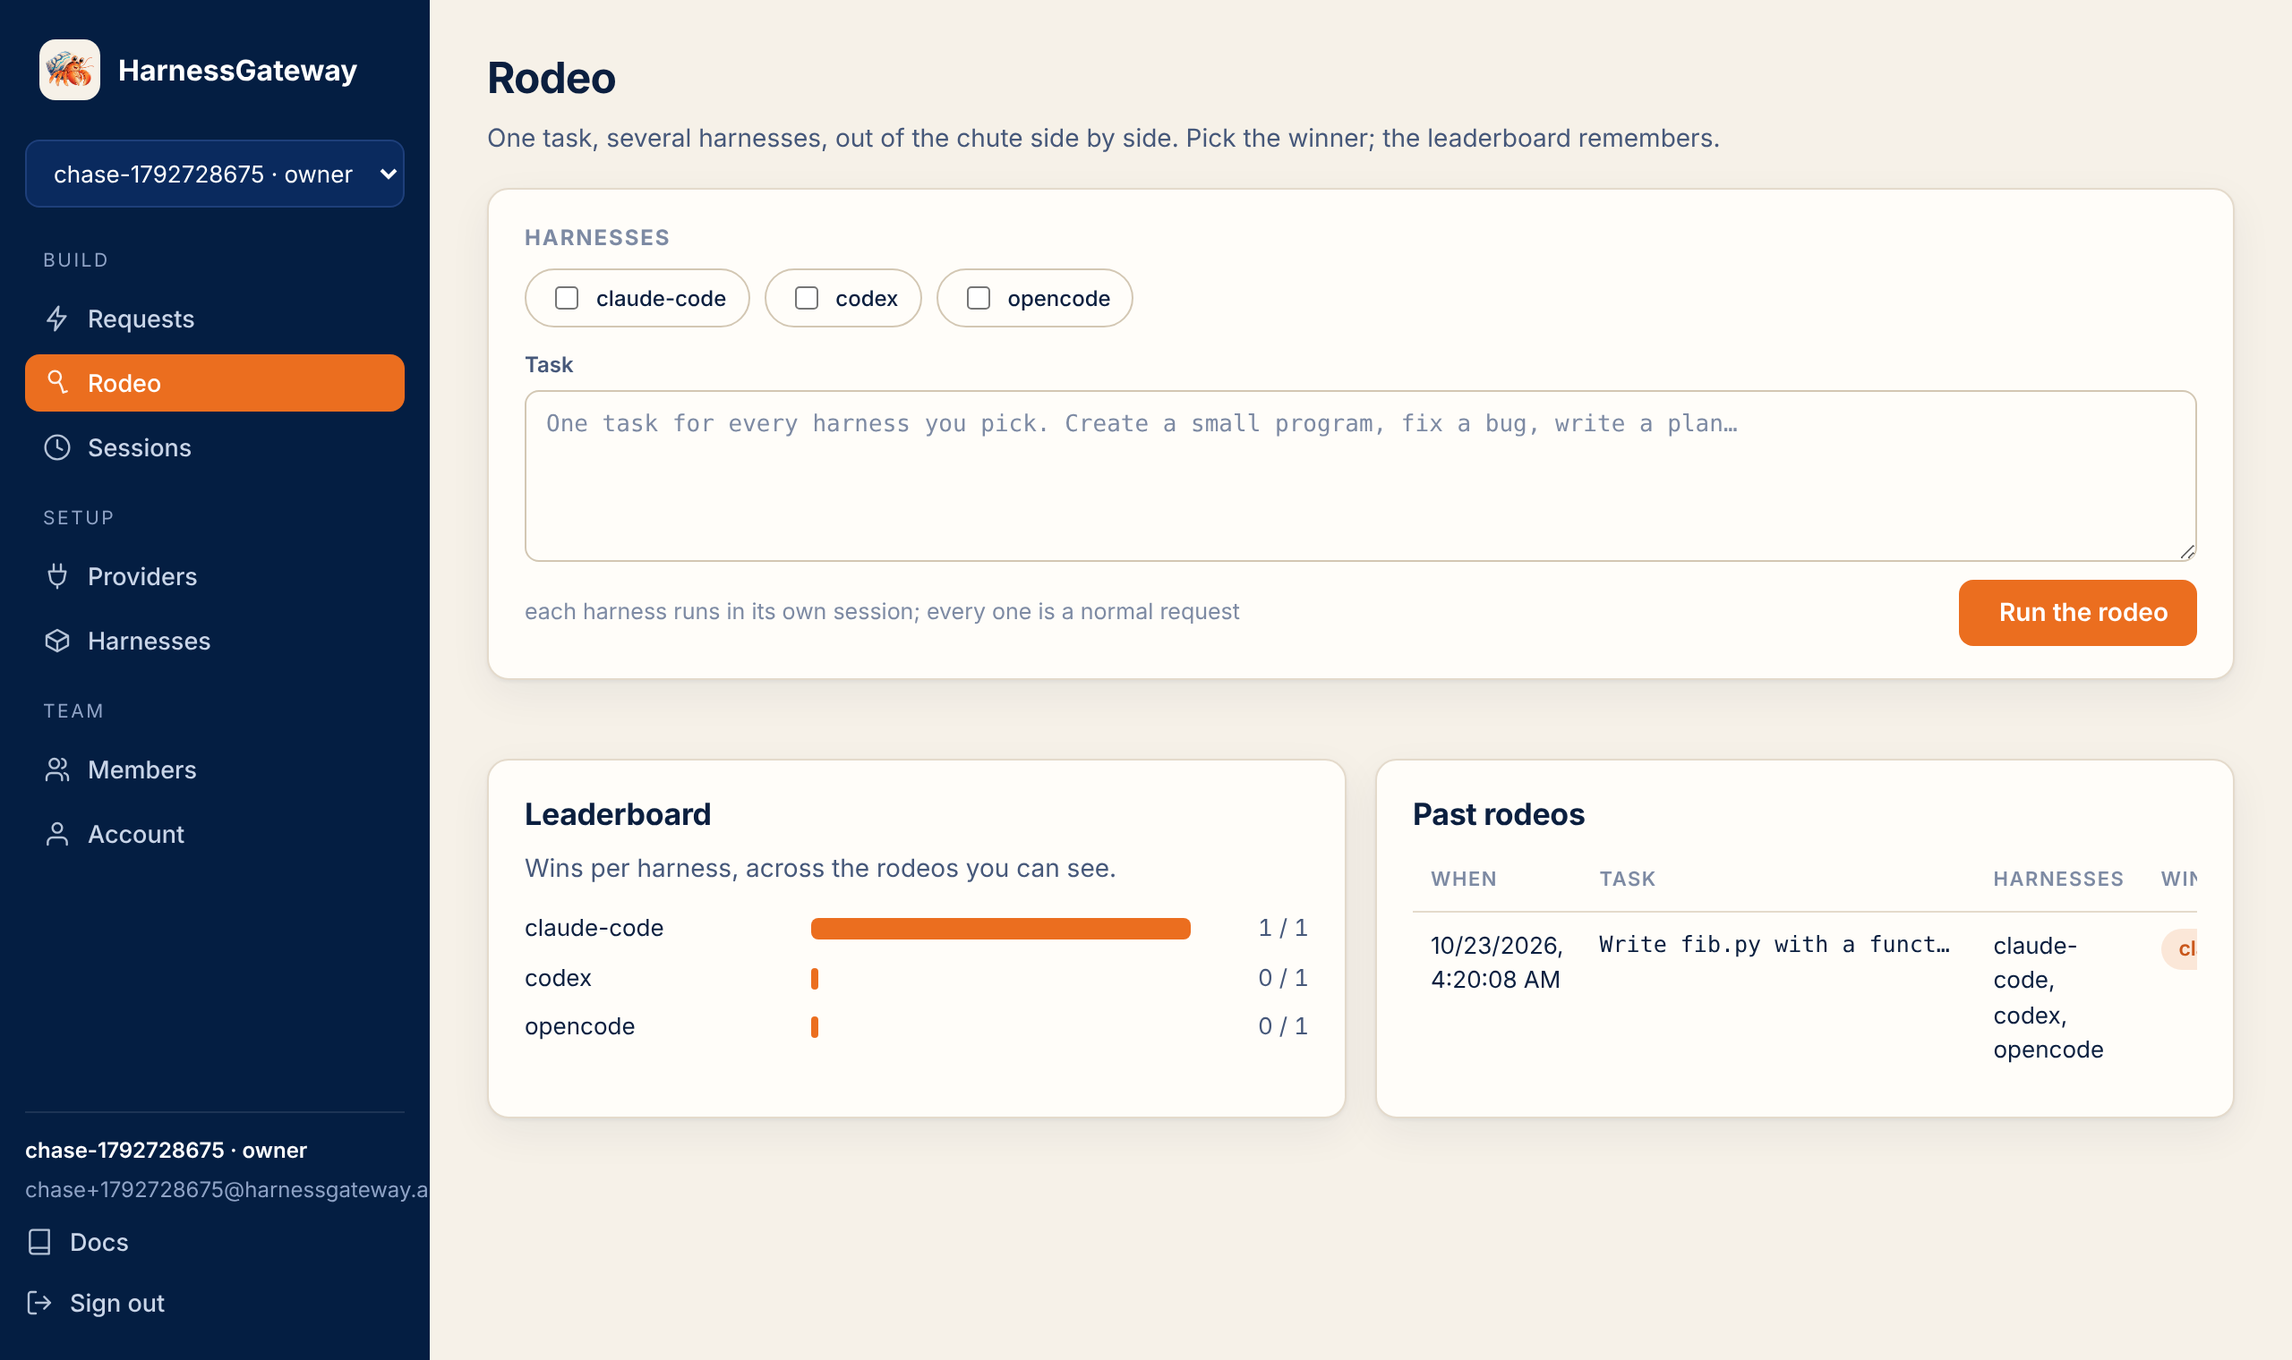
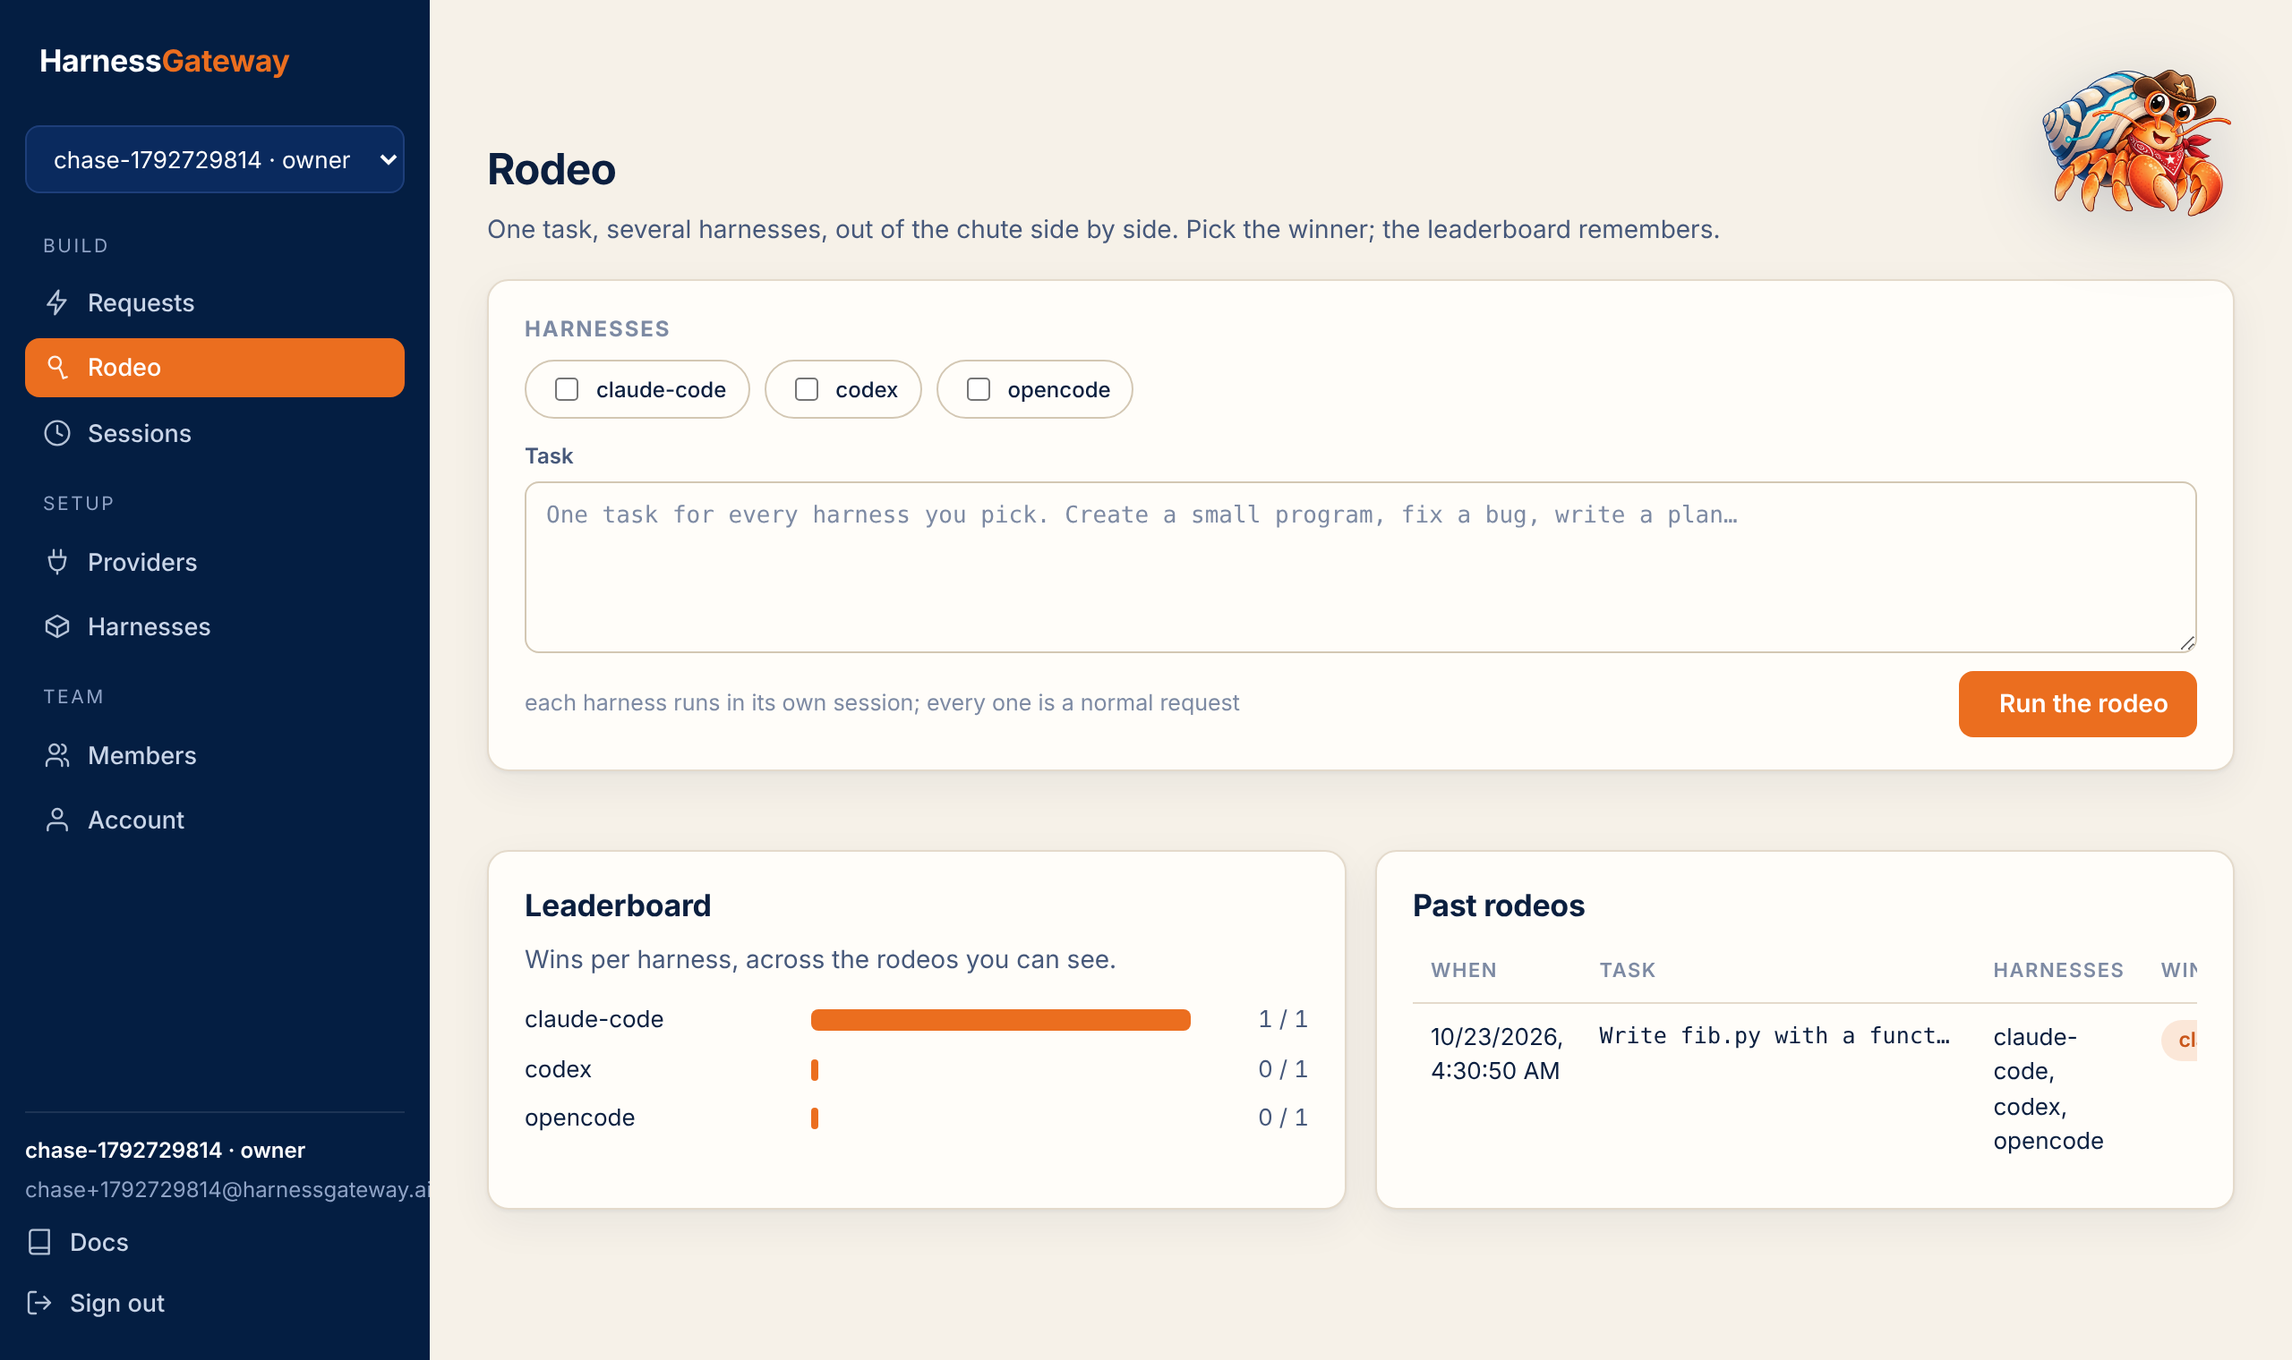
6.1.1: Picky updated, Picky in the rodeo, the name as a wordmark (#59)
The newest portrait on the home page and the sign-in page with no square behind it; the cowboy Picky on the Rodeo page, the home page's rodeo card and the rodeo docs; the name as a wordmark, Harness in ink and Gateway in orange, in place of the small mascot. Screenshots retaken.

Claude-Session: https://claude.ai/code/session_01ERRZXAJHGKJWMvAyf4LasW

diff --git a/web/style.css b/web/style.css
@@ -15,6 +15,9 @@ html { background:var(--bg); }
 body { margin:0; font:14px/1.5 var(--sans); color:var(--fg); background:var(--bg); min-height:100vh; -webkit-font-smoothing:antialiased; }
 a { color:var(--blue); text-decoration:none; } a:hover { color:var(--blue-2); text-decoration:underline; }
 h1, h2, h3, h4 { margin:0; letter-spacing:-.01em; text-wrap:balance; }
+.wordmark { font-weight:700; letter-spacing:-.01em; white-space:nowrap; } .wordmark em { font-style:normal; color:var(--orange); }
+.rodeo-mascot { width:112px; height:112px; filter:drop-shadow(0 10px 20px rgba(4,30,66,.18)); }
+.feature.rodeo-feature { position:relative; padding-right:120px; } .rodeo-feature img { position:absolute; right:10px; top:10px; width:96px; height:96px; }
 h2 { font-size:17px; font-weight:650; } h3 { font-size:12px; font-weight:650; color:var(--muted); text-transform:uppercase; letter-spacing:.08em; margin:18px 0 8px; }
 p { margin:0 0 10px; } p.lead { font-size:17px; color:var(--dim); line-height:1.55; }
 code, kbd { font-family:var(--mono); font-size:.92em; background:var(--surface-2); border:1px solid var(--line); border-radius:5px; padding:1px 5px; }
@@ -66,7 +69,7 @@ th { color:var(--muted); font-weight:600; font-size:11px; text-transform:upperca
 /* the app shell: a sidebar and a page */
 .shell { display:grid; grid-template-columns:240px 1fr; min-height:100vh; }
 .side { background:var(--navy); color:#DCE5F3; padding:18px 14px; display:flex; flex-direction:column; gap:4px; position:sticky; top:0; height:100vh; overflow:auto; }
-.side .brand { display:flex; align-items:center; gap:10px; padding:4px 8px 14px; color:#fff; font-weight:700; font-size:16px; text-decoration:none; } .side .brand img { width:34px; height:34px; border-radius:9px; background:var(--bg); padding:3px; }
+.side .brand { display:flex; align-items:center; gap:10px; padding:4px 8px 14px; color:#fff; font-weight:700; font-size:17px; text-decoration:none; }
 .side .group { font-size:10.5px; text-transform:uppercase; letter-spacing:.12em; color:#8FA3C6; padding:12px 10px 4px; }
 .side a.item, .side button.item { display:flex; align-items:center; gap:9px; width:100%; text-align:left; background:none; border:0; color:#C9D5E8; padding:8px 10px; border-radius:8px; font-weight:500; font-size:13.5px; }
 .side .item:hover { background:rgba(255,255,255,.07); color:#fff; text-decoration:none; } .side .item.on { background:var(--orange); color:#fff; }
@@ -81,7 +84,7 @@ th { color:var(--muted); font-weight:600; font-size:11px; text-transform:upperca
 @media (max-width:900px) {
   .shell { grid-template-columns:1fr; } .side { display:none; }
   .topbar { display:flex; align-items:center; gap:10px; padding:10px 16px; background:var(--navy); color:#fff; position:sticky; top:0; z-index:5; overflow-x:auto; }
-  .topbar img { width:26px; height:26px; border-radius:7px; background:var(--bg); padding:2px; } .topbar b { white-space:nowrap; }
+  .topbar b { white-space:nowrap; }
   .topbar button { background:none; border:0; color:#C9D5E8; padding:6px 8px; white-space:nowrap; font-weight:500; } .topbar button.on { color:var(--orange); }
   .page { padding:18px 16px 40px; }
 }
@@ -89,7 +92,7 @@ th { color:var(--muted); font-weight:600; font-size:11px; text-transform:upperca
 /* sign in */
 .auth { min-height:100vh; display:grid; grid-template-columns:1.1fr 1fr; }
 .auth .side-art { background:var(--navy); color:#DCE5F3; padding:48px; display:flex; flex-direction:column; justify-content:space-between; }
-.auth .side-art .brand { display:flex; align-items:center; gap:12px; color:#fff; font-weight:700; font-size:18px; text-decoration:none; } .auth .side-art .brand img { width:40px; height:40px; border-radius:10px; background:var(--bg); padding:3px; }
+.auth .side-art .brand { display:flex; align-items:center; gap:12px; color:#fff; font-weight:700; font-size:20px; text-decoration:none; }
 .auth .side-art h1 { color:#fff; font-size:34px; line-height:1.1; margin:0 0 14px; } .auth .side-art h1 em { color:var(--orange); font-style:normal; }
 .auth .side-art p { max-width:460px; color:#B7C6E0; font-size:15px; }
 .auth .side-art img.mascot { width:220px; margin-top:24px; filter:drop-shadow(0 20px 40px rgba(0,0,0,.35)); }
@@ -127,7 +130,7 @@ th { color:var(--muted); font-weight:600; font-size:11px; text-transform:upperca
 
 /* the home page */
 .site header { display:flex; align-items:center; gap:18px; padding:14px 28px; max-width:1180px; margin:0 auto; }
-.site header .brand { display:flex; align-items:center; gap:10px; color:var(--navy); font-weight:700; font-size:17px; text-decoration:none; } .site header .brand img { width:36px; height:36px; }
+.site header .brand { display:flex; align-items:center; gap:10px; color:var(--navy); font-weight:700; font-size:19px; text-decoration:none; }
 .site header nav { display:flex; gap:18px; margin-left:12px; } .site header nav a { color:var(--dim); font-weight:500; } .site header nav a:hover { color:var(--navy); text-decoration:none; }
 .site header .cta { margin-left:auto; display:flex; gap:8px; }
 .hero { max-width:1180px; margin:0 auto; padding:56px 28px 36px; display:grid; grid-template-columns:1.15fr .85fr; gap:36px; align-items:center; }

diff --git a/web/app.js b/web/app.js
@@ -96,7 +96,7 @@ function login(note, mode = "signin", resetToken = "") {
   }
   $("#root").replaceChildren(h("div", { class: "auth" },
     h("div", { class: "side-art" },
-      h("a", { class: "brand", href: "/" }, h("img", { src: "/web/picky.png", alt: "" }), "HarnessGateway"),
+      h("a", { class: "brand", href: "/" }, h("span", { class: "wordmark" }, "Harness", h("em", {}, "Gateway"))),
       h("div", {}, h("h1", {}, "Every coding agent.", h("br"), "One API. ", h("em", {}, "Sandboxed.")), h("p", {}, "Bring your providers and your harness packages. The platform runs each turn in a sandbox it owns, relays the provider calls through a gateway that holds the keys, and keeps the complete record."), h("img", { class: "mascot", src: "/web/picky.png", alt: "" })),
       h("div", { class: "muted", style: "color:#8FA3C6" }, state.health.signup === "open" ? "harnessgateway.ai" : "self-hosted", " · v", state.health.version, " · ", h("a", { href: "/docs/", style: "color:#B7C6E0" }, "Docs"))),
     h("div", { class: "form" }, h("div", {}, note, ...body, out))));
@@ -117,10 +117,10 @@ function shell(page) {
   const item = (p, ic) => h("button", { class: "item" + (p === state.page ? " on" : ""), on: { click: () => shell(p) } }, icon(ic), p);
   const switcher = state.account ? h("div", { class: "tenant" }, h("select", { on: { change: async (e) => { if (e.target.value === "+") { e.target.value = state.me.tenant; return shell("Account"); } try { const me = await api("POST", "/auth/switch", { tenant: e.target.value }); state.tenants = me.tenants; state.me = { ...me.current, name: me.current.member }; state.kind = me.current.role; shell(state.page); } catch (err) { alert(err.message); } } } },
     ...state.tenants.map(t => h("option", { value: t.tenant, selected: t.tenant === state.me.tenant }, `${t.tenant} · ${t.role}`)), h("option", { value: "+" }, "+ new tenant"))) : null;
-  const side = h("aside", { class: "side" }, h("a", { class: "brand", href: "/" }, h("img", { src: "/web/picky.png", alt: "" }), "HarnessGateway"), switcher,
+  const side = h("aside", { class: "side" }, h("a", { class: "brand", href: "/" }, h("span", { class: "wordmark" }, "Harness", h("em", {}, "Gateway"))), switcher,
     ...groups.flatMap(([label, items]) => [h("div", { class: "group" }, label), ...items.filter(([p]) => all.includes(p)).map(([p, ic]) => item(p, ic))]),
     h("div", { class: "foot" }, h("b", {}, state.kind === "deployer" ? "deployer" : `${state.me.name} · ${state.kind}`), state.account ? h("span", {}, state.account.email) : h("span", {}, state.me.tenant || "the platform"), h("a", { class: "item", href: "/docs/", style: "padding:6px 0" }, icon("book"), "Docs"), h("button", { class: "item", style: "padding:6px 0", on: { click: signOut } }, icon("logout"), "Sign out")));
-  const top = h("div", { class: "topbar" }, h("img", { src: "/web/picky.png", alt: "" }), h("b", {}, "HarnessGateway"), ...all.map(p => h("button", { class: p === state.page ? "on" : "", on: { click: () => shell(p) } }, p)), h("button", { on: { click: signOut } }, "Sign out"));
+  const top = h("div", { class: "topbar" }, h("b", {}, h("span", { class: "wordmark" }, "Harness", h("em", {}, "Gateway"))), ...all.map(p => h("button", { class: p === state.page ? "on" : "", on: { click: () => shell(p) } }, p)), h("button", { on: { click: signOut } }, "Sign out"));
   const main = h("main", { class: "page" }, h("div", { class: "empty" }, "loading…"));
   $("#root").replaceChildren(h("div", { class: "shell" }, side, h("div", {}, top, main)));
   VIEWS[state.page]().then(el => main.replaceChildren(el)).catch(e => main.replaceChildren(h("div", { class: "card" }, fail(e))));
@@ -228,7 +228,7 @@ async function rodeo() {
     runBtn.disabled = false;
   };
   const rows = board.data.map(a => h("tr", {}, h("td", {}, when(a.created)), h("td", { class: "mono", style: "max-width:220px;white-space:nowrap;overflow:hidden;text-overflow:ellipsis", title: a.prompt }, a.prompt.slice(0, 80)), h("td", {}, a.entries.map(e => e.harness).join(", ")), h("td", {}, a.winner ? tag(a.winner, "orange") : h("span", { class: "muted" }, "undecided")), h("td", {}, h("button", { class: "ghost small danger", on: { click: async () => { await api("DELETE", `/v1/rodeos/${a.id}`); shell("Rodeo"); } } }, "delete"))));
-  return h("div", {}, head("Rodeo", "One task, several harnesses, out of the chute side by side. Pick the winner; the leaderboard remembers."),
+  return h("div", {}, head("Rodeo", "One task, several harnesses, out of the chute side by side. Pick the winner; the leaderboard remembers.", h("img", { class: "rodeo-mascot", src: "/web/picky-rodeo.png", alt: "Picky in a cowboy hat and bandana" })),
     h("div", { class: "card" }, h("h3", { style: "margin-top:0" }, "harnesses"), picks, h("div", { style: "margin-top:12px" }, field("Task", input)), h("div", { class: "row between", style: "margin-top:10px" }, h("span", { class: "muted" }, "each harness runs in its own session; every one is a normal request"), runBtn), out),
     h("div", { id: "rodeo-run", style: "margin-top:16px" }, cols, verdict),
     h("div", { class: "grid-2", style: "margin-top:16px" },

diff --git a/web/index.html b/web/index.html
@@ -12,7 +12,7 @@
 </head>
 <body class="site">
 <header>
-  <a class="brand" href="/"><img src="/web/picky.png" alt="">HarnessGateway</a>
+  <a class="brand" href="/"><span class="wordmark">Harness<em>Gateway</em></span></a>
   <nav><a href="#how">How it works</a><a href="#harnesses">Harnesses</a><a href="#rodeo">Rodeo</a><a href="#deploy">Deploy</a><a href="#editions">Editions</a><a href="/docs/">Docs</a></nav>
   <div class="cta"><a class="quiet btn" href="/app">Sign in</a><a class="act btn" href="/app#signup" id="start">Get started</a></div>
 </header>
@@ -65,7 +65,7 @@ print(r.status, r.output_text)</div>
   <div class="grid-3">
     <div class="feature"><b>Sandboxed by construction</b><p>A fresh container per turn, no capabilities, a read-only root, the tenant's own uid and ceilings, and a door that tunnels only to the hosts the package names.</p></div>
     <div class="feature"><b>The workspace, in the app</b><p>Every turn ends with a snapshot. Browse the files the agent made, read them in place, download the archive, continue the session.</p></div>
-    <div class="feature"><b>The rodeo</b><p>One task, several harnesses, out of the chute side by side. Pick the winner. The leaderboard remembers which harness earns your work.</p></div>
+    <div class="feature rodeo-feature"><img src="/web/picky-rodeo.png" alt="Picky in a cowboy hat and bandana"><b>The rodeo</b><p>One task, several harnesses, out of the chute side by side. Pick the winner. The leaderboard remembers which harness earns your work.</p></div>
     <div class="feature"><b>The complete record</b><p>Every request, steer, cancel and response in the trace; every provider exchange captured; usage metered per turn.</p></div>
     <div class="feature"><b>Your team</b><p>Accounts with email, GitHub or Google sign-in. Owners invite members by email, mint keys per place a key is used, and revoke the one that leaks.</p></div>
     <div class="feature"><b>Hosted or yours</b><p>One image, four roles. Records in SQLite or Postgres, blobs in a directory or any S3 store, no cloud SDK anywhere else. The same code is harnessgateway.ai and your own box.</p></div>
@@ -94,7 +94,7 @@ docker logs hg   <span class="c"># the deployer key, your tenant, your API key</
   </div>
 </section>
 
-<footer><b style="color:var(--navy)">HarnessGateway</b> · Apache 2.0 · <a href="/docs/">Docs</a> · <a href="/reference">API reference</a> · <a href="https://github.com/mrcloudchase/harnessgatewayai">Source</a> · <span id="edition"></span></footer>
+<footer><b class="wordmark" style="color:var(--navy)">Harness<em>Gateway</em></b> · Apache 2.0 · <a href="/docs/">Docs</a> · <a href="/reference">API reference</a> · <a href="https://github.com/mrcloudchase/harnessgatewayai">Source</a> · <span id="edition"></span></footer>
 <script>
   fetch("/healthz").then(r => r.json()).then(h => {
     document.getElementById("edition").textContent = (h.signup === "open" ? "cloud" : "self-hosted") + " · v" + h.version;

diff --git a/docs/assets/extra.css b/docs/assets/extra.css
@@ -20,7 +20,6 @@
   --md-text-font: "Inter";
 }
 .md-header, .md-tabs { background-color: #041E42; }
-.md-header__button.md-logo img { border-radius: 8px; background: #F6F1E8; padding: 2px; height: 1.6rem; width: 1.6rem; }
 .md-search__form { background-color: rgba(255,255,255,.1); }
 .md-typeset h1, .md-typeset h2 { color: #041E42; font-weight: 700; letter-spacing: -.01em; }
 .md-typeset h2 { border-bottom: 1px solid #E4DACB; padding-bottom: .2em; }

diff --git a/CHANGELOG.md b/CHANGELOG.md
@@ -4,6 +4,13 @@ Every release is a section here, newest first, and the newest section's heading 
 A merge to `main` that adds a section releases it: the release workflow tags that version, builds
 the wheel and the image, and publishes the section as its notes.
 
+## [6.1.1]
+
+- **Picky, updated.** The newest portrait on the home page and the sign-in page, and the small
+  one next to the name is gone: the name is a wordmark, Harness in ink and Gateway in orange.
+- **Picky rides in the rodeo.** A cowboy hat and a bandana on the Rodeo page, the home page's
+  rodeo card and the rodeo's documentation.
+
 ## [6.1.0]
 
 - **The arena is the rodeo.** The page, the records and the routes are named for it:

diff --git a/docs/rodeo.md b/docs/rodeo.md
@@ -1,5 +1,9 @@
 # Rodeo
 
+<figure class="shot" markdown>
+![Picky in a cowboy hat and bandana](assets/picky-rodeo.png){ width="180" }
+</figure>
+
 One task, several harnesses, out of the chute side by side. Each entry is an ordinary request in a
 session of its own; the rodeo records which harnesses ran the task and which one you picked.
 
